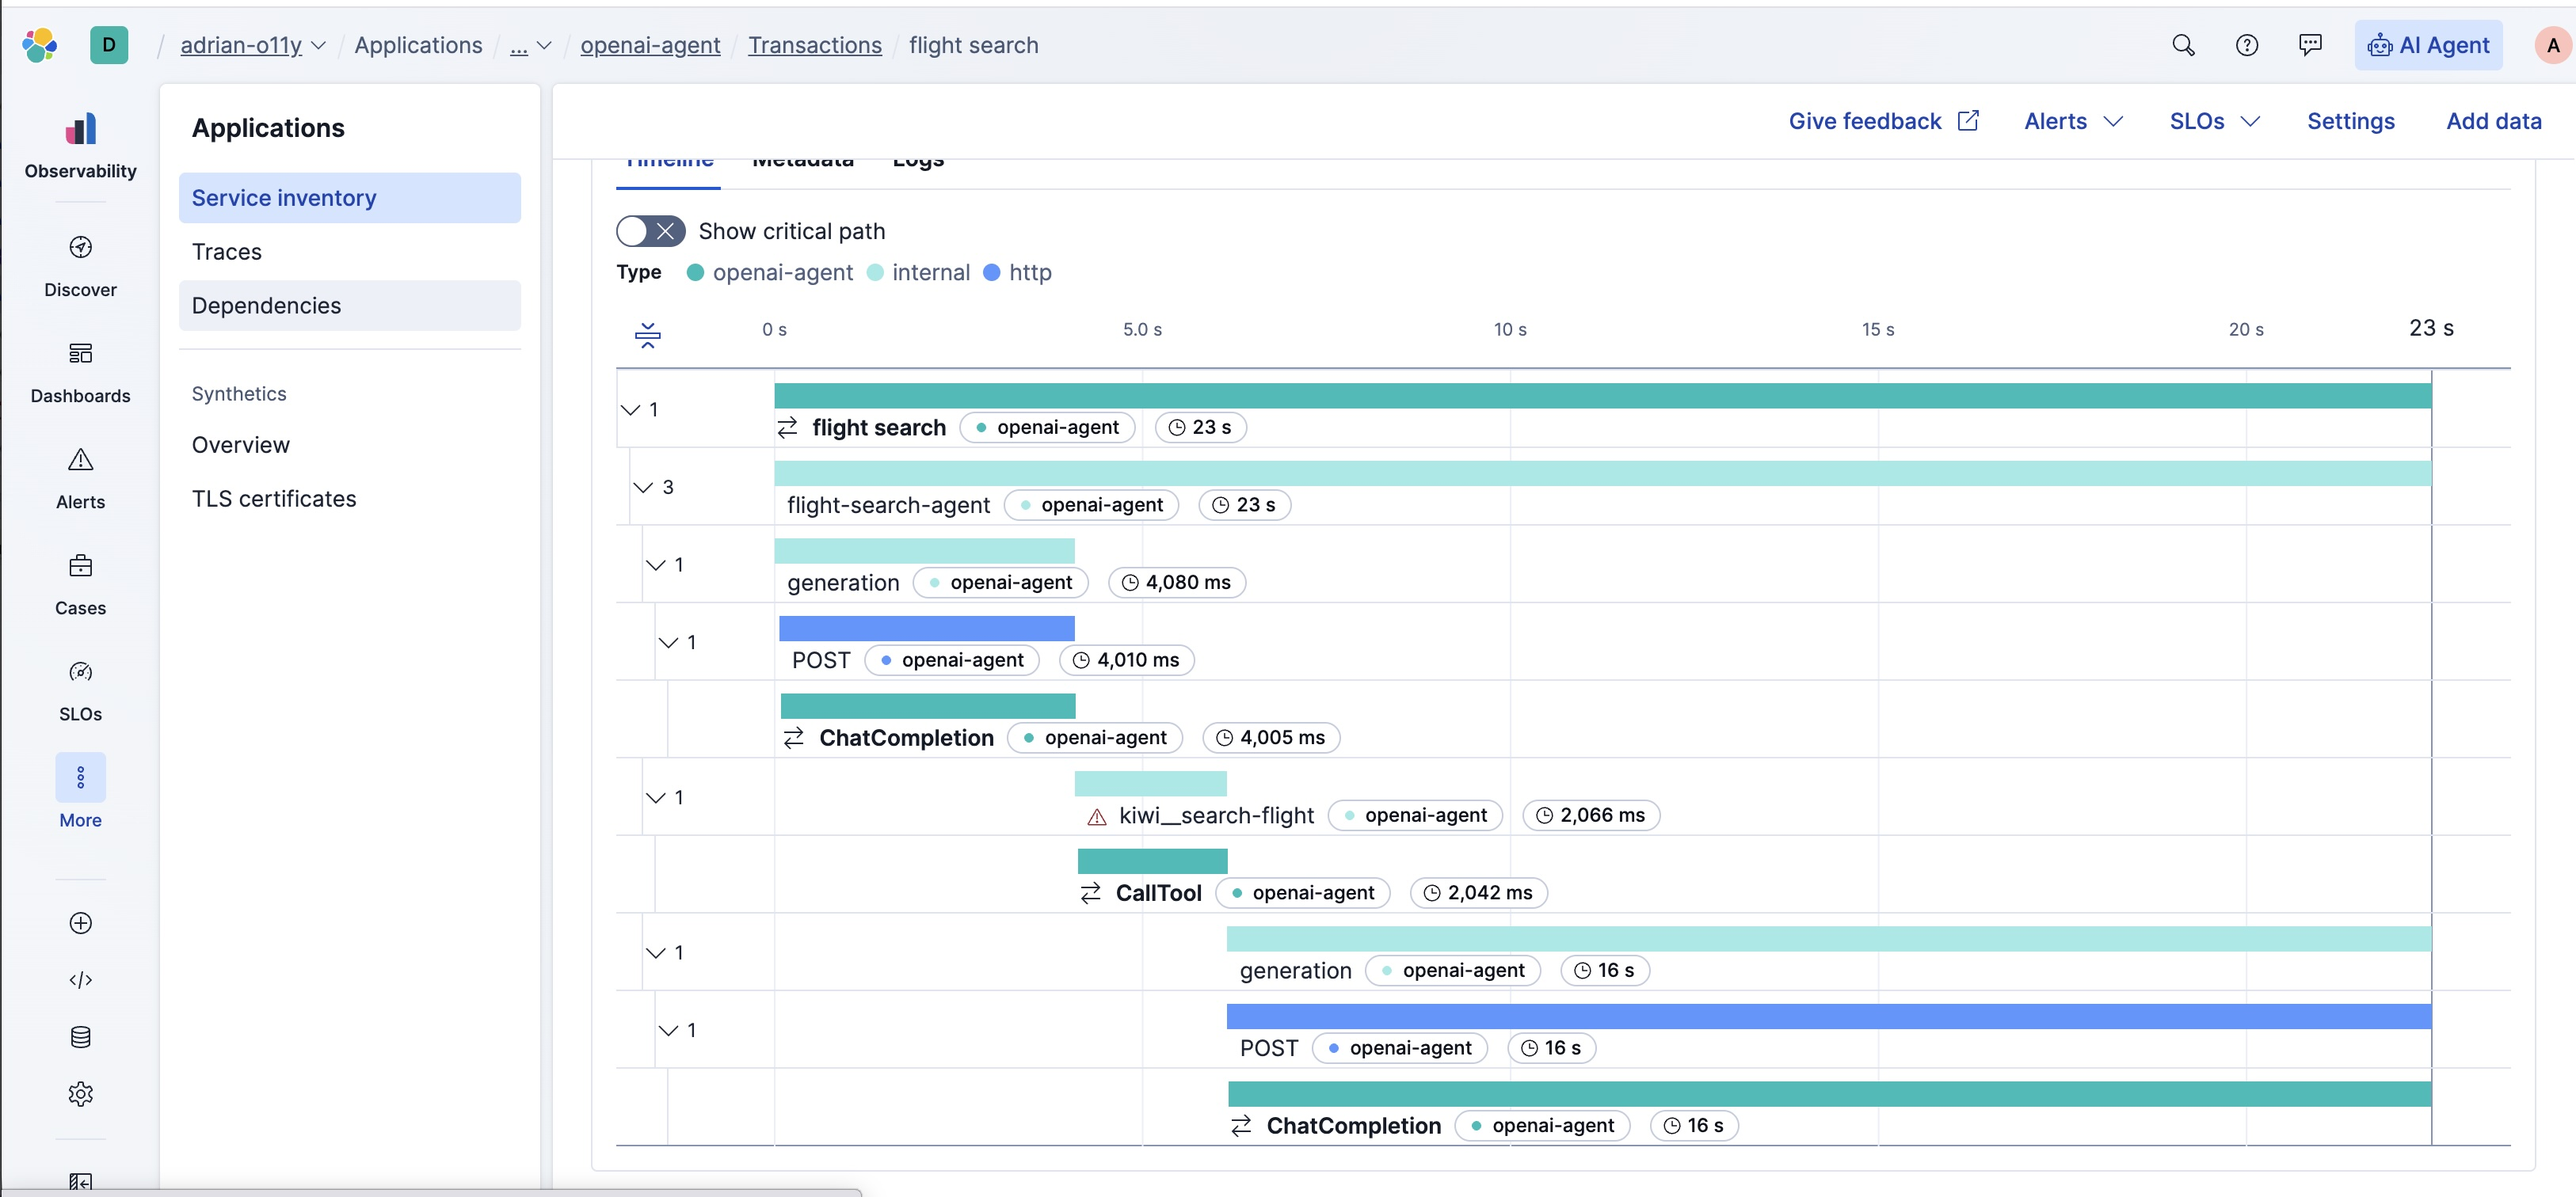
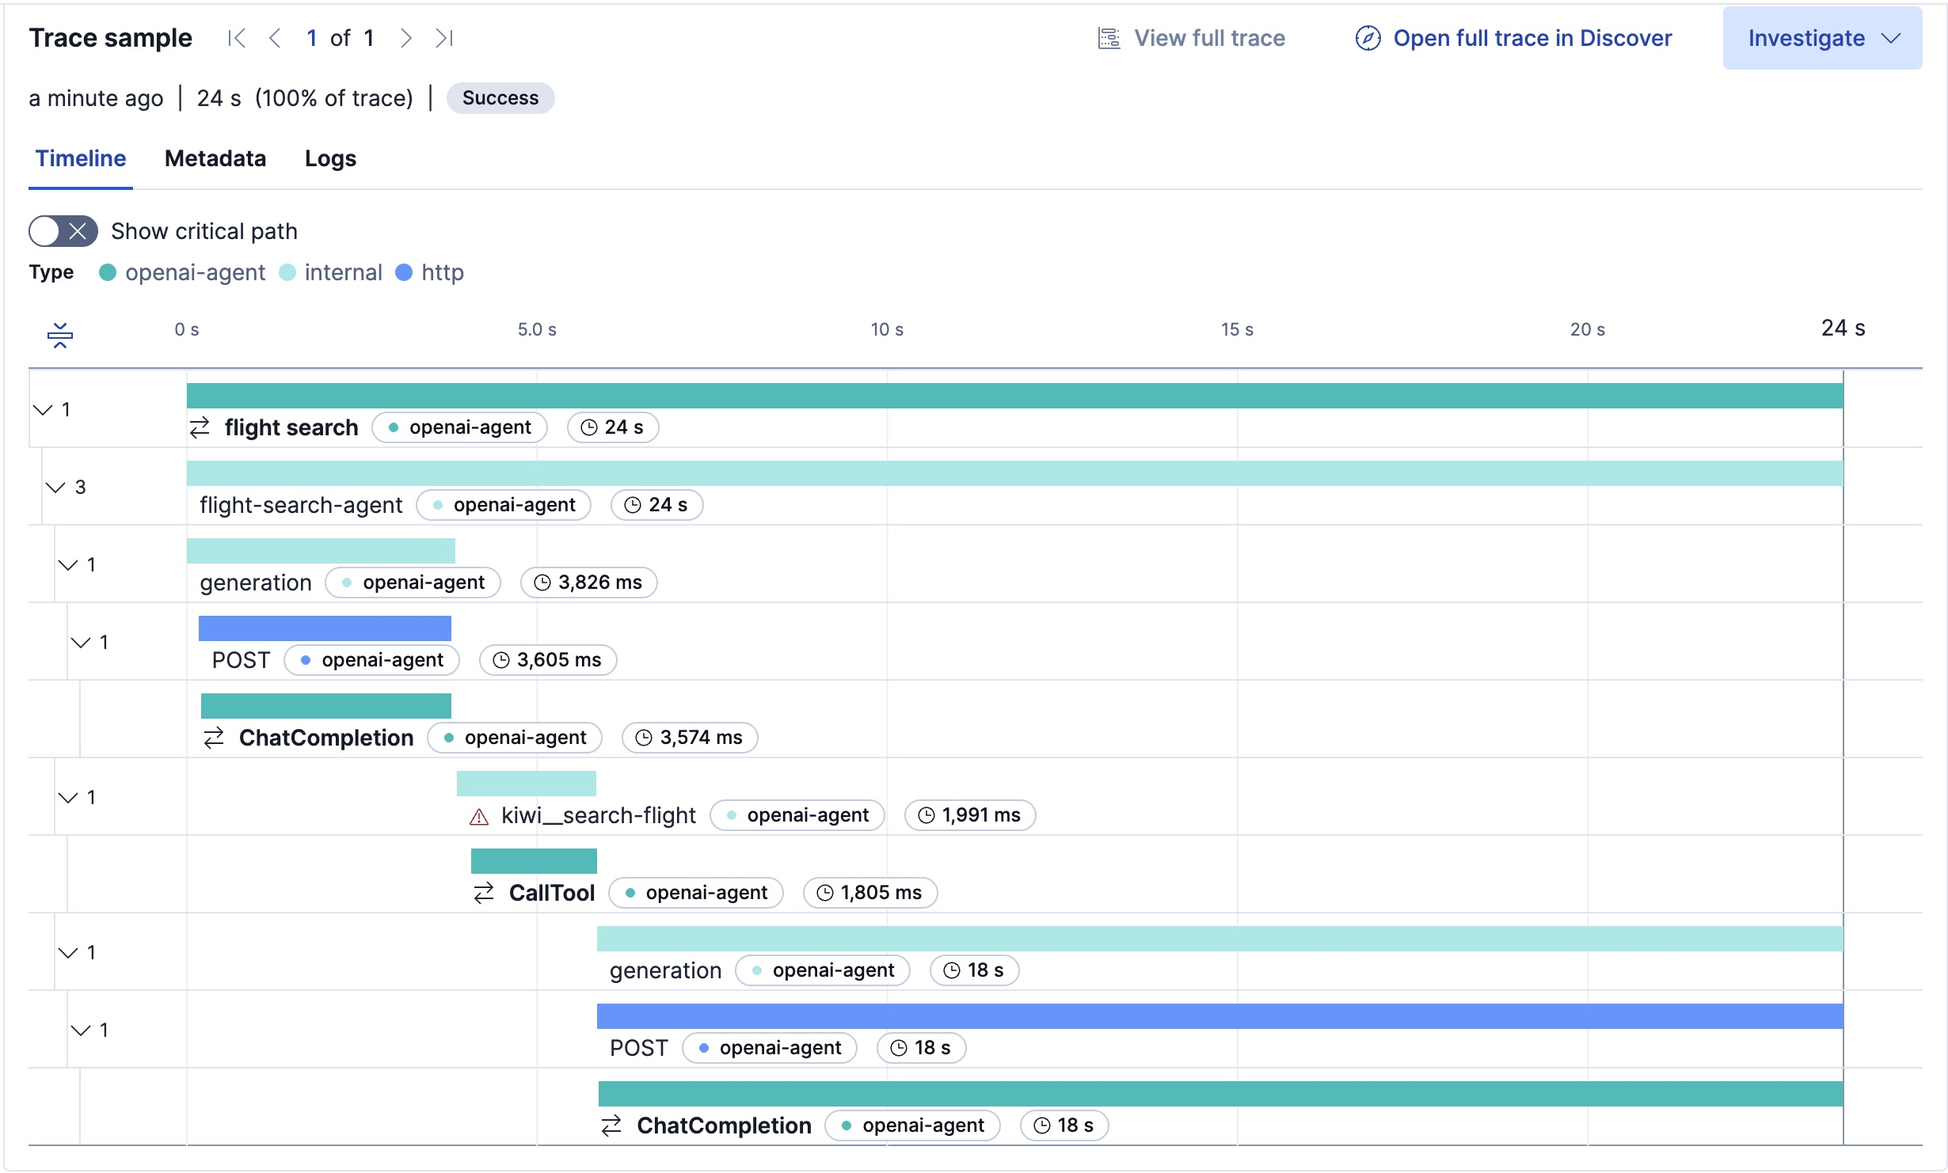
update

diff --git a/inference-platforms/agent.py b/inference-platforms/agent.py
@@ -45,7 +45,7 @@ async def run_agent(tools: list[Tool], model_name: str, use_responses: bool):
     next_week = (datetime.now() + timedelta(weeks=1)).strftime("%d/%m/%Y")
     result = await Runner.run(
         starting_agent=agent,
-        input=f"Give me the best flight from New York to Kota Kinabalu on {next_week}",
+        input=f"Use the search-flight tool to search for flights from New York to Los Angeles on {next_week}",
         run_config=RunConfig(workflow_name="flight search"),
     )
     print(result.final_output)

diff --git a/inference-platforms/README.md b/inference-platforms/README.md
@@ -19,6 +19,43 @@ Elastic Stack.
 * [AgC](AgC) - with [OpenTelemetry export][AgC]
 * [vLLM](vllm) - with [OpenTelemetry POC][vllm] configuration
 
+## MCP Agent flow
+
+[agent.py](agent.py) uses the [OpenAI Agents SDK][openai-agents] to search for
+flights via [Kiwi's MCP server][kiwi-mcp], proxied through an inference
+platform like [Envoy AI Gateway](aigw).
+
+```mermaid
+sequenceDiagram
+    participant Agent
+    participant Gateway as AI Gateway
+    participant LLM as LLM Server
+    participant MCP as MCP Server
+
+    Agent ->> Gateway: user: "Use the search-flight tool to search for flights from New York to Los Angeles on 18/03/2026"
+    Gateway ->> LLM: ChatCompletion
+    activate LLM
+    LLM ->> Gateway: tool_call: search-flight({origin: "JFK", destination: "LAX", departureDate: "18/03/2026"})
+    deactivate LLM
+    Gateway ->> Agent:
+    activate Agent
+
+    Agent ->> Gateway: tools/call: search-flight
+    Gateway ->> MCP: tools/call: search-flight
+    activate MCP
+    MCP -->> Gateway: {flights: [{price: 177, route: "JFK→ATL→LAX"}, ...]}
+    deactivate MCP
+    Gateway -->> Agent:
+    deactivate Agent
+
+    Agent ->> Gateway: [user, assistant, tool: {flights}]
+    Gateway ->> LLM: ChatCompletion
+    activate LLM
+    LLM ->> Gateway: "The cheapest flight is JFK → ATL → LAX for €177..."
+    deactivate LLM
+    Gateway ->> Agent:
+```
+
 If you use Elastic Stack, an example would look like this in Kibana:
 
 ![Kibana screenshot](./kibana-trace.jpg)
@@ -114,3 +151,5 @@ To start and use Ollama, do the following:
 [uv]: https://docs.astral.sh/uv/getting-started/installation/
 [ollama-dl]: https://ollama.com/download
 [otel-tui]: https://github.com/ymtdzzz/otel-tui
+[openai-agents]: https://github.com/openai/openai-agents-python
+[kiwi-mcp]: https://mcp.kiwi.com
